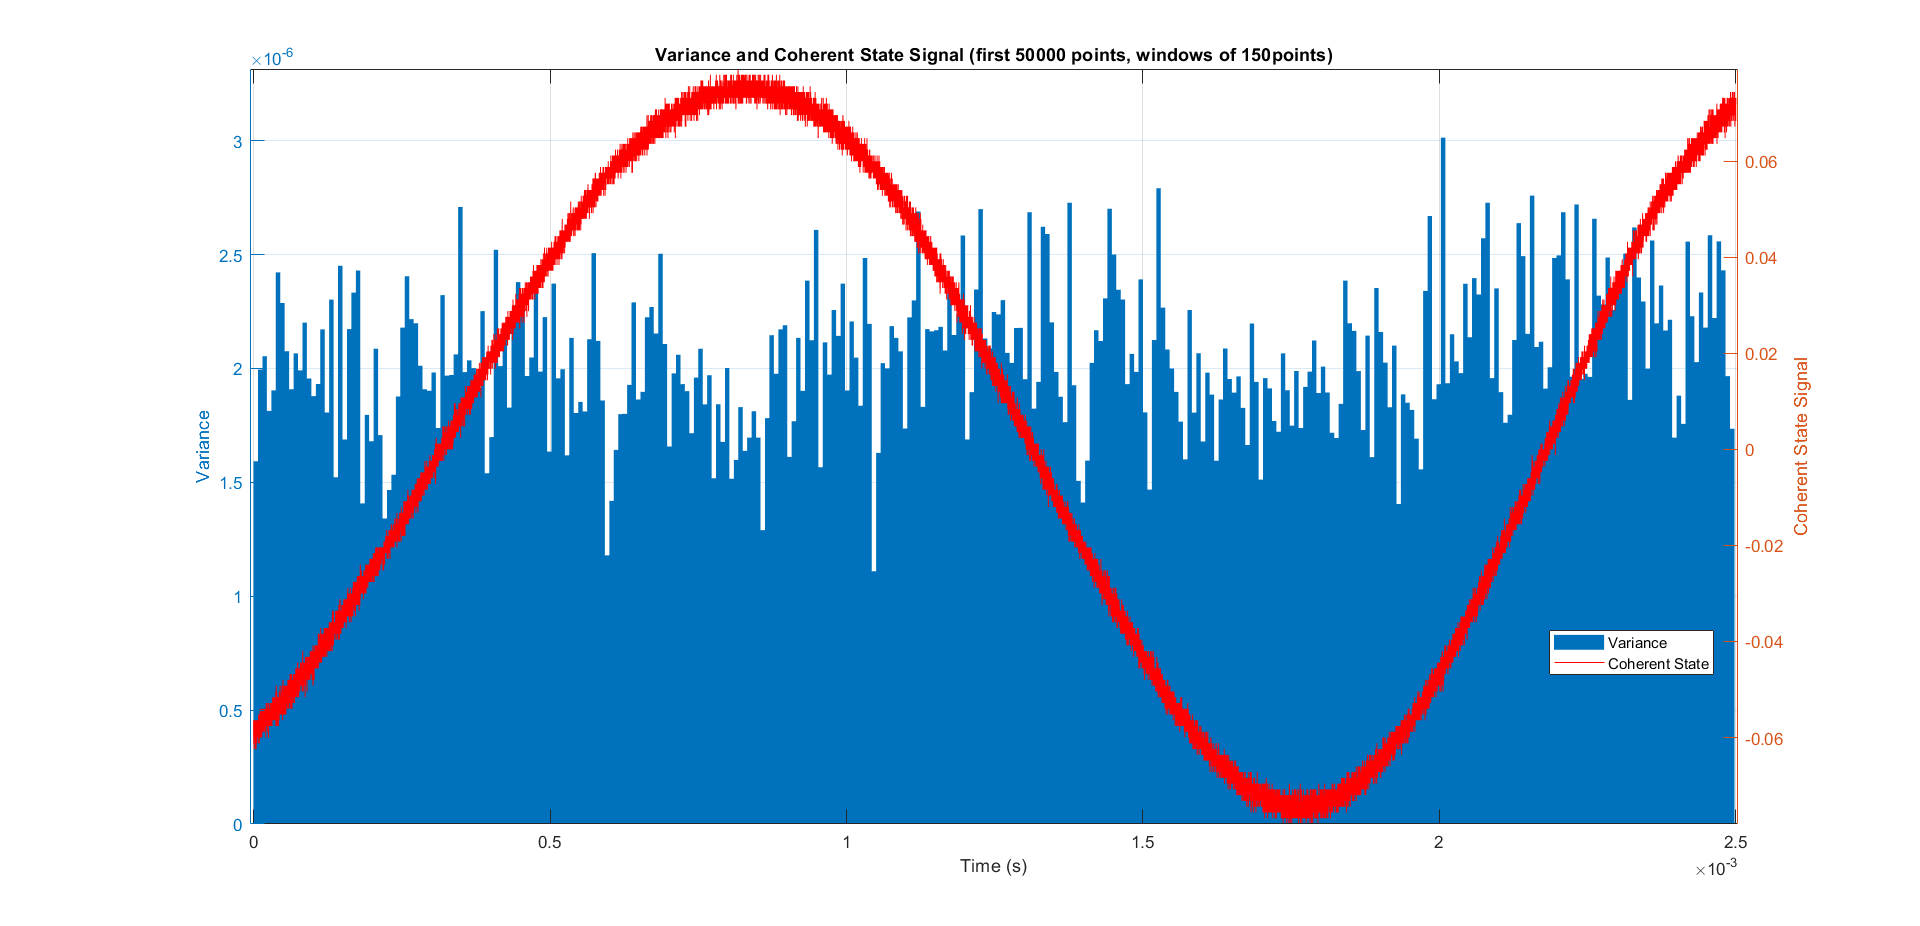
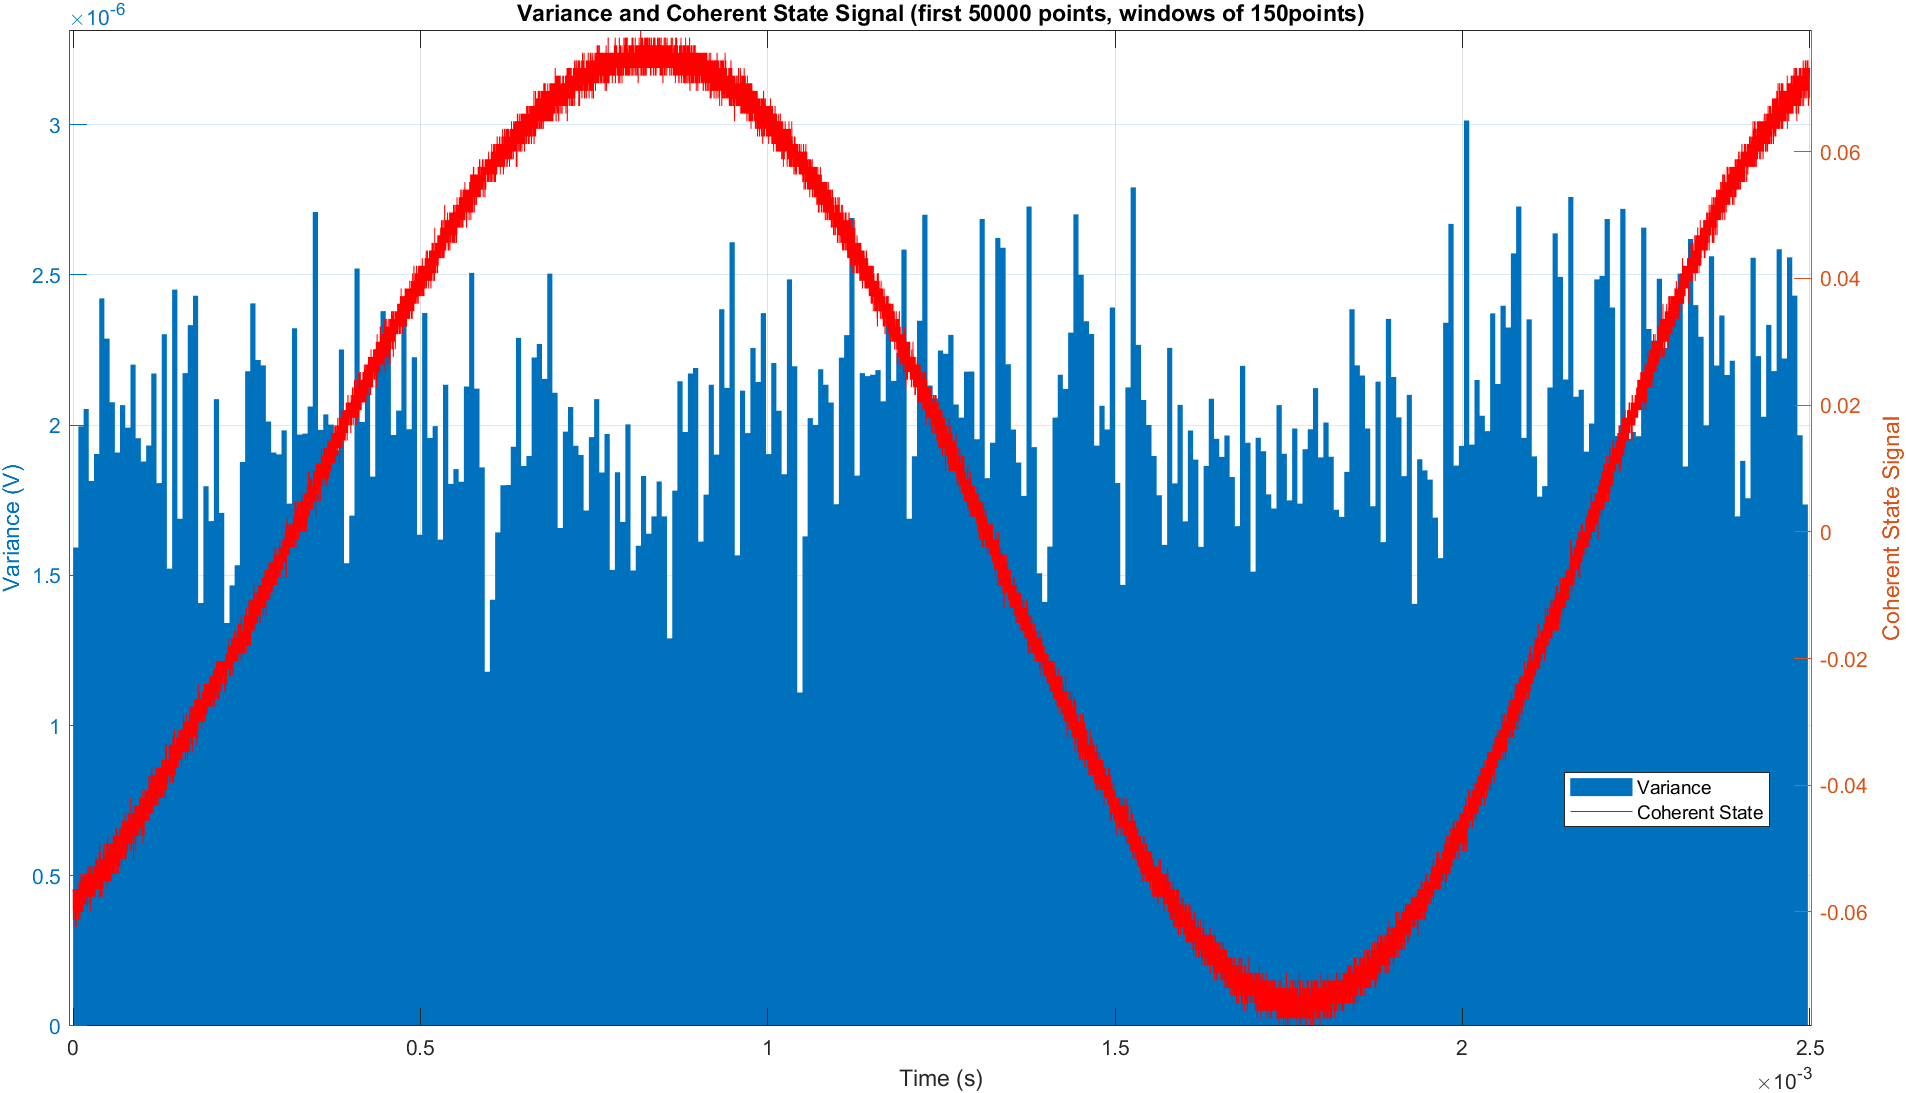
Unità di misura in V

Changed region(s): [[0.0, 0.0, 1.0, 0.9978], [0.031, 0.0, 0.0929, 0.0302], [0.1238, 0.0605, 0.1548, 0.0907]]

diff --git a/coherent_interf_plot.m b/coherent_interf_plot.m
@@ -27,7 +27,7 @@ disp(['Interference percentage: ' num2str(interf_percent) '%']);
 figure;
 plot(xc, yc, 'DisplayName', 'Coherent State');
 xlabel('Time (s)');
-ylabel('Values');
+ylabel('Values (V)');
 legend;
 title('Coherent State');
 grid on;
@@ -38,7 +38,7 @@ plot(xi, yi, 'DisplayName', 'Interference');
 plot(xin, yin, 'DisplayName', 'Interference Neg');
 plot(xc, yc, 'DisplayName', 'Coherent State');
 xlabel('Time (s)');
-ylabel('Values');
+ylabel('Values (V)');
 title('Interference');
 legend;
 grid on;
@@ -73,7 +73,7 @@ errors = sqrt(2./(N-1)) .* variances; % Calcolo dell'errore standard della varia
 figure;
 yyaxis left
 hBar = bar(central_times, variances, 1, 'DisplayName', 'Variance');
-ylabel('Variance');
+ylabel('Variance (V)');
 ylim([0 max(variances) * 1.1]);
 
 hold on
@@ -105,7 +105,7 @@ hold off
 figure;
 plot(central_times, errors, 'DisplayName', 'Errors');
 xlabel('Time (s)');
-ylabel('Error');
+ylabel('Error (V)');
 title('Error in Variance Calculation');
 grid on;
 legend('Location', 'best');
@@ -117,7 +117,7 @@ hold on;
 plot(xi, yi + yin, 'DisplayName', 'Sum of Interference and Interference Neg');
 plot(xc, yc, 'DisplayName', 'Coherent State');
 xlabel('Time (s)');
-ylabel('Values');
+ylabel('Values (V)');
 title('Interference sum');
 legend;
 grid on;
